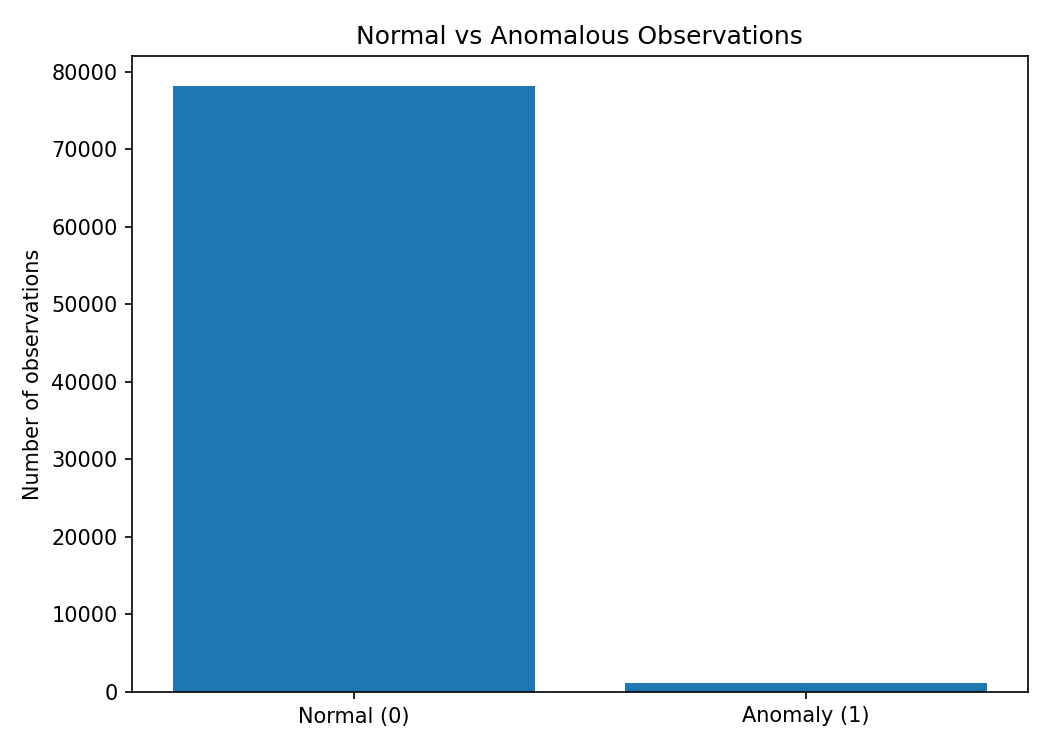
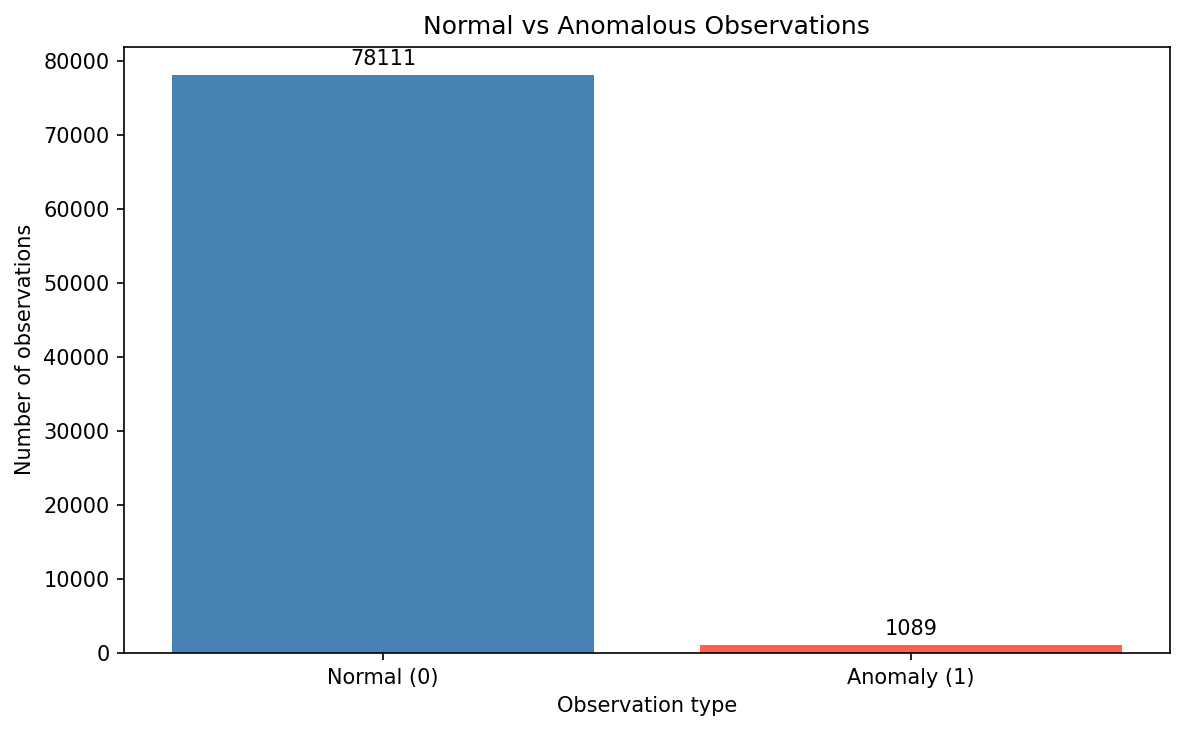
Improve EDA charts and add data summaries

diff --git a/src/eda.py b/src/eda.py
@@ -1,49 +1,173 @@
 
 from pathlib import Path
 
+import matplotlib
+matplotlib.use("Agg")  # Save charts without opening graphical windows
+
 import matplotlib.pyplot as plt
 import pandas as pd
 
+
+# Project paths
 PROJECT_ROOT = Path(__file__).resolve().parent.parent
 DATA_PATH = PROJECT_ROOT / "data" / "processed" / "ingress_cleaned.parquet"
 OUTPUT_DIR = PROJECT_ROOT / "docs" / "eda"
 
-def main():
-    df = pd.read_parquet(DATA_PATH)
-    OUTPUT_DIR.mkdir(parents=True, exist_ok=True)
 
-    # 1. Count normal and anomalous observations.
+def load_data():
+    """Load and validate the processed dataset."""
+
+    if not DATA_PATH.exists():
+        raise FileNotFoundError(f"Dataset not found: {DATA_PATH}")
+
+    df = pd.read_parquet(DATA_PATH)
+
+    required_columns = {"TimeStamp", "Value", "Label", "Series"}
+    missing_columns = required_columns - set(df.columns)
+
+    if missing_columns:
+        raise ValueError(f"Missing columns: {missing_columns}")
+
+    return df
+
+
+def plot_label_distribution(df):
+    """Plot the number of normal and anomalous observations."""
+
     counts = df["Label"].value_counts().reindex([0, 1], fill_value=0)
 
-    plt.figure(figsize=(7, 5))
-    plt.bar(["Normal (0)", "Anomaly (1)"], counts.values)
-    plt.title("Normal vs Anomalous Observations")
-    plt.ylabel("Number of observations")
-    plt.tight_layout()
-    plt.savefig(OUTPUT_DIR / "label_distribution.png", dpi=150)
-    plt.close()
+    fig, ax = plt.subplots(figsize=(8, 5))
 
-    # 2. Plot one time series and mark labelled anomalies.
-    series_name = "ingress-01"
-    series_df = df[df["Series"] == series_name].sort_values("TimeStamp")
+    bars = ax.bar(
+        ["Normal (0)", "Anomaly (1)"],
+        counts.values,
+        color=["steelblue", "tomato"],
+    )
+
+    ax.set_title("Normal vs Anomalous Observations")
+    ax.set_xlabel("Observation type")
+    ax.set_ylabel("Number of observations")
+    ax.bar_label(bars, padding=3)
+
+    fig.tight_layout()
+
+    output_path = OUTPUT_DIR / "label_distribution.png"
+    fig.savefig(str(output_path), dpi=150, bbox_inches="tight")
+    plt.close(fig)
+
+    print(f"Saved: {output_path}")
+
+
+def plot_time_series(df, series_name="ingress-01"):
+    """Plot ingress values and highlight dataset-labelled anomalies."""
+
+    series_df = (
+        df[df["Series"] == series_name]
+        .sort_values("TimeStamp")
+        .copy()
+    )
+
+    if series_df.empty:
+        raise ValueError(f"No observations found for {series_name}")
+
     anomalies = series_df[series_df["Label"] == 1]
 
-    plt.figure(figsize=(12, 5))
-    plt.plot(series_df["TimeStamp"], series_df["Value"],
-             label="Ingress rate", linewidth=1)
-    plt.scatter(anomalies["TimeStamp"], anomalies["Value"],
-                label="Labelled anomalies", s=15)
-    plt.title(f"Cloud Ingress Rate and Labelled Anomalies: {series_name}")
-    plt.xlabel("Timestamp (UTC)")
-    plt.ylabel("Ingress rate")
-    plt.legend()
-    plt.tight_layout()
-    plt.savefig(OUTPUT_DIR / "ingress_01_anomalies.png", dpi=150)
-    plt.close()
+    fig, ax = plt.subplots(figsize=(13, 5))
 
-    print("EDA completed.")
-    print("Charts saved in:", OUTPUT_DIR)
-    print("Label counts:\n", counts)
+    ax.plot(
+        series_df["TimeStamp"],
+        series_df["Value"],
+        color="steelblue",
+        label="Ingress rate",
+        linewidth=1,
+    )
+
+    ax.scatter(
+        anomalies["TimeStamp"],
+        anomalies["Value"],
+        color="red",
+        label="Labelled anomalies",
+        s=22,
+        zorder=3,
+    )
+
+    ax.set_title(
+        f"Cloud Ingress Rate and Labelled Anomalies: {series_name}"
+    )
+    ax.set_xlabel("Timestamp (UTC)")
+    ax.set_ylabel("Ingress rate")
+    ax.legend()
+
+    fig.tight_layout()
+
+    output_path = OUTPUT_DIR / f"{series_name}_anomalies.png"
+    fig.savefig(str(output_path), dpi=150, bbox_inches="tight")
+    plt.close(fig)
+
+    print(f"Saved: {output_path}")
+
+
+def create_data_quality_summary(df):
+    """Save overall and per-series statistics as CSV files."""
+
+    overall_summary = pd.DataFrame([{
+        "total_observations": len(df),
+        "number_of_series": df["Series"].nunique(),
+        "normal_observations": int((df["Label"] == 0).sum()),
+        "anomalous_observations": int((df["Label"] == 1).sum()),
+        "anomaly_percentage": round((df["Label"] == 1).mean() * 100, 3),
+        "missing_values": int(df.isnull().sum().sum()),
+        "minimum_value": df["Value"].min(),
+        "maximum_value": df["Value"].max(),
+        "mean_value": df["Value"].mean(),
+        "median_value": df["Value"].median(),
+    }])
+
+    overall_path = OUTPUT_DIR / "data_quality_summary.csv"
+    overall_summary.to_csv(overall_path, index=False)
+    print(f"Saved: {overall_path}")
+
+    per_series_summary = (
+        df.groupby("Series")
+        .agg(
+            observations=("Value", "size"),
+            normal_observations=("Label", lambda x: (x == 0).sum()),
+            anomalous_observations=("Label", lambda x: (x == 1).sum()),
+            minimum_value=("Value", "min"),
+            maximum_value=("Value", "max"),
+            mean_value=("Value", "mean"),
+            median_value=("Value", "median"),
+            missing_values=("Value", lambda x: x.isnull().sum()),
+        )
+        .reset_index()
+    )
+
+    per_series_path = OUTPUT_DIR / "per_series_summary.csv"
+    per_series_summary.to_csv(per_series_path, index=False)
+    print(f"Saved: {per_series_path}")
+
+    print("\nOverall summary:")
+    print(overall_summary.to_string(index=False))
+
+    print("\nSummary by time series:")
+    print(per_series_summary.to_string(index=False))
+
+
+def main():
+    OUTPUT_DIR.mkdir(parents=True, exist_ok=True)
+
+    df = load_data()
+
+    print("EDA started.")
+    print("Dataset shape:", df.shape)
+
+    plot_label_distribution(df)
+    plot_time_series(df, "ingress-01")
+    create_data_quality_summary(df)
+
+    print("\nEDA completed successfully.")
+    print("Outputs saved in:", OUTPUT_DIR)
+
 
 if __name__ == "__main__":
     main()
